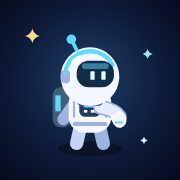
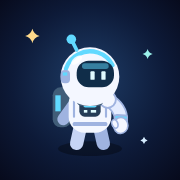
Astronaut arm redraw and home auto-fit to one viewport
The arm gets a shoulder cap, a bowed sleeve, a cuff and a shaded mitten so it reads as a limb on the suit. The home stage shrinks (never below 80%) when a desktop or tablet window is slightly too short, keeping Records and Settings in view. Icons regenerated from the new figure.

Claude-Session: https://claude.ai/code/session_01PGLm2WMc4c6zV9thbbPf6R

Changed region(s): [[0.5, 0.5, 0.7222, 0.75]]

diff --git a/src/home.js b/src/home.js
@@ -51,12 +51,38 @@
   }
   const api={MODES,heroLabel,resetsIn};
   if(typeof module!=='undefined'&&module.exports)module.exports=api;
-  root.SpaceManHome=Object.freeze({heroLabel,resetsIn,notice(text) {
+  // Fit the whole home into one viewport when its natural height is a little
+  // too tall (browser zoom, big text, short windows). Zoom scales layout, not
+  // just paint; the floor keeps captions legible and leaves the shell
+  // scrollable below it.
+  const FIT_FLOOR=.8;let fitQueued=false;
+  function fit() {
+    fitQueued=false;
+    const doc=root.document,shell=doc?.querySelector?.('.home-shell'),stage=doc?.querySelector?.('.home-stage');
+    if(!shell||!stage||!root.getComputedStyle)return;
+    // Phones keep their hand-tuned compact layouts; this is for desktop and tablet windows.
+    if(root.innerWidth<760||root.innerHeight<560){stage.style.zoom='';stage.style.width='';stage.style.maxWidth='';return;}
+    stage.style.zoom='';stage.style.width='';stage.style.maxWidth='';
+    const cs=root.getComputedStyle(shell),pad=(parseFloat(cs.paddingTop)||0)+(parseFloat(cs.paddingBottom)||0);
+    const need=stage.offsetHeight,room=shell.clientHeight-pad;
+    if(!(need>0)||!(room>0)||need<=room)return;
+    // Pin the unzoomed width so the grid reflows exactly as before, just smaller.
+    stage.style.width=stage.offsetWidth+'px';stage.style.maxWidth='none';
+    stage.style.zoom=String(Math.max(FIT_FLOOR,Math.floor(room/need*100)/100));
+  }
+  function queueFit() { if(fitQueued||!root.requestAnimationFrame)return;fitQueued=true;root.requestAnimationFrame(fit); }
+  root.addEventListener?.('resize',queueFit);root.addEventListener?.('orientationchange',queueFit);
+  root.document?.fonts?.ready?.then?.(queueFit);
+  // The shell goes from hidden to laid out when the home is shown, and again when the game cards reflow.
+  const watchShell=()=>{const shell=root.document.querySelector('.home-shell');const stage=root.document.querySelector('.home-stage');if(shell&&root.ResizeObserver){const ro=new root.ResizeObserver(queueFit);ro.observe(shell);if(stage)ro.observe(stage);}};
+  if(root.document?.readyState==='loading')root.document.addEventListener('DOMContentLoaded',watchShell);else if(root.document?.querySelector)watchShell();
+  root.SpaceManHome=Object.freeze({heroLabel,resetsIn,fit:queueFit,notice(text) {
     const el=root.document.getElementById('homeNotice');if(!el)return;
     if(el.textContent!==text)el.textContent=text;
     el.hidden=!text;
   },render(appearance) {
     const c=surface('homeHero',640,400);if(c&&root.SpaceManArt?.drawAvatar)hero(c,appearance);
     [['homeRunArt','run'],['homeArenaArt','arena'],['homeRaceArt','race']].forEach(([id,mode])=>{const g=surface(id,260,156);if(g&&root.SpaceManArt?.drawAvatar)tile(g,mode,appearance);});
+    queueFit();
   }});
 })(typeof window!=='undefined'?window:globalThis);

diff --git a/src/art.js b/src/art.js
@@ -419,15 +419,22 @@ const characterHats = {
     c.fillStyle = P.suit; rrPath(c, -8, -5 + bob, 16, 17, 6); c.fill(); suitDetails(c, 0, bob, style);
     // The shoulder starts beneath the neck seal. Helmet paints last, so no
     // limb can pop over the face during idle or the brief equip greeting.
-    const handX = 11 + hello * 3, handY = 6 + bob - hello * 13;
-    const armPath = () => { c.beginPath(); c.moveTo(4, 2.5 + bob); c.quadraticCurveTo(9.5, 3.5 + bob, handX, handY); };
-    // A thin shade under the sleeve keeps the pale arm readable against the pale suit.
-    c.strokeStyle = P.legB; c.lineWidth = 5.6; armPath(); c.stroke();
-    c.strokeStyle = P.arm; c.lineWidth = 4.4; armPath(); c.stroke();
-    c.fillStyle = P.legB; rrPath(c, handX - 2.4, handY - 1.5, 4.8, 3, 1); c.fill();
-    c.fillStyle = P.suit; c.beginPath(); c.ellipse(handX, handY + 1.1, 2.7, 3.1, -.2, 0, TAU); c.fill();
-    c.beginPath(); c.ellipse(handX - 2, handY + .6, 1.2, 1.6, -.45, 0, TAU); c.fill();
-    c.strokeStyle = style.accent; c.lineWidth = .8; c.beginPath(); c.moveTo(handX - 1.3, handY + 2.2); c.lineTo(handX + 1, handY + 2.2); c.stroke();
+    // Shoulder cap on the body's edge, a sleeve that bows outward, then a cuff
+    // and mitten. Each piece carries a thin legB shade so the silhouette matches
+    // the legs and pack instead of melting into the suit.
+    const shX = 6.6, shY = -.4 + bob, handX = 11.6 + hello * 2.6, handY = 7.4 + bob - hello * 14, elX = 11.8 + hello * 1.2, elY = 2.6 + bob - hello * 5;
+    const sleeve = () => { c.beginPath(); c.moveTo(shX, shY); c.quadraticCurveTo(elX, elY, handX, handY); };
+    c.lineCap = 'round'; c.strokeStyle = P.legB; c.lineWidth = 5.3; sleeve(); c.stroke();
+    c.strokeStyle = P.arm; c.lineWidth = 4; sleeve(); c.stroke();
+    c.fillStyle = P.suit; c.strokeStyle = P.legB; c.lineWidth = .7; c.beginPath(); c.arc(shX, shY, 3.1, 0, TAU); c.fill(); c.stroke();
+    const wrist = Math.atan2(handY - elY, handX - elX);
+    c.save(); c.translate(handX, handY); c.rotate(wrist - Math.PI / 2);
+    c.fillStyle = P.legB; rrPath(c, -2.6, -2.3, 5.2, 2.6, 1.1); c.fill();
+    c.fillStyle = style.accent; c.fillRect(-2.1, -1.5, 4.2, .8);
+    c.fillStyle = P.suit; c.strokeStyle = P.legB; c.lineWidth = .6;
+    c.beginPath(); c.ellipse(0, 1.9, 2.7, 3, 0, 0, TAU); c.fill(); c.stroke();
+    c.beginPath(); c.ellipse(-2.2, 1.4, 1.1, 1.7, -.4, 0, TAU); c.fill(); c.stroke();
+    c.restore();
     characterHelmet(c, 0, -9 + bob, style, { tick: time * 60 + 20, calm: reduceMotion, mood: hello > .15 ? 1 : 0 });
     c.restore();
   }

diff --git a/index.html b/index.html
@@ -6558,6 +6558,7 @@ function showAttract() {
   window.SpaceManHome.render(equippedAppearance());
   syncOffline();
   showOverlay('ovAttract');
+  window.SpaceManHome.fit();
   resetRun(SHOT_SEED !== null ? SHOT_SEED : 12345);
   G.mode = 'attract';
   attractGreet();   // E13: welcome-back wave + anniversary confetti (one-shots, DELIGHT-gated)
